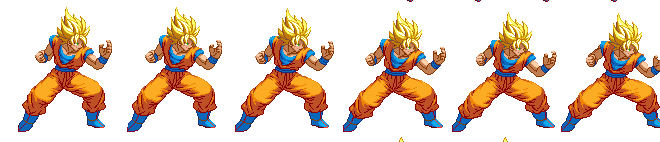
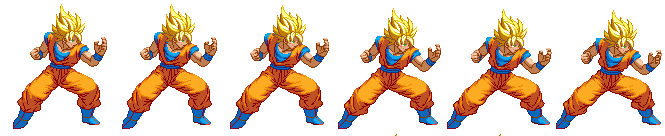
Ajout de la gravité, du saut, du nombre max de sauts, animations, effet de damages, collisions

diff --git a/test_olivier/modules/player.py b/test_olivier/modules/player.py
@@ -16,17 +16,19 @@ class Player(pg.sprite.Sprite):
         self.propertie = self.coord[0]
         self.init_plus()
         self.strike = 10
+        # Nombre de sauts max
+        self.jumps = 1
 
     def init_plus(self):
         '''Cette fonction permet d'initialiser des élements
         suplémentaires.'''
         self.rect.x, self.rect.y = 900, 500
         self.sprite_x = 50
-        # temps entre chaque sprite de l'animation idle en ms
+        # Temps entre chaque sprite de l'animation idle en ms
         self.idle_speed = 300
-        # somme des temps entres chaque frame
+        # Somme des temps entres chaque frame
         self.delta_sum = 0
-        # Etat pour savoir si le joueur fait rien
+        # Bouléen pour savoir si le joueur fait rien ou pas
         self.pause = True
         # Images complémentaires
         self.images_dict = sprites_images(self.game.name)
@@ -34,10 +36,9 @@ class Player(pg.sprite.Sprite):
     def move_right(self):
         '''Cette fonction gère les déplacements à droite.'''
         if self.rect.x <= 950:
-            self.rect.x += 10
+            self.rect.x += 5
             # On change l'image du joueur
-            self.images_dict = sprites_images(self.game.name)
-            self.image = self.images_dict['right']
+            self.change_animation('right')
             # Le joueur fait une action
             self.pause = False
 
@@ -45,10 +46,9 @@ class Player(pg.sprite.Sprite):
         '''Cette fonction gère les déplacements à gauche.'''
         if self.rect.x > 5:
             if not self.game.collision(self, self.game.all_objects):
-                self.rect.x -= 10
+                self.rect.x -= 5
                 # On change l'image du joueur
-                self.images_dict = sprites_images(self.game.name)
-                self.image = self.images_dict['left']
+                self.change_animation('left')
                 # Change les coordonnées du perso
                 self.pause = False
 
@@ -56,9 +56,36 @@ class Player(pg.sprite.Sprite):
         '''Cette fonction permet de gérer l'attaque d'un perso.'''
         # Le joueur fait une action
         self.pause = False
+        self.change_animation('attack')
+        if not self.game.collision(self, self.game.all_objects):
+            self.rect.x -= 1
+
+    def jump(self, event):
+        '''Fonction saut'''
+        if event.type == pg.KEYDOWN:
+            if event.key == pg.K_SPACE:
+                if self.rect.y <= 500 and self.jumps < 2:
+                    self.change_animation('jump')
+                    # Exécute le saut
+                    self.rect.y -= 200
+                    # Augmente le nombre de saut effectués
+                    self.jumps += 1
+
+    def gravity(self):
+        '''Focntion qui simule une gravité'''
+        # Le joueur tombe tant qu'il n'est pas au sol
+        if self.rect.y != 500:
+            self.pause = False
+            self.rect.y += 5
+            self.change_animation('fall')
+        # Sinon, on réinitialise son nombre de sauts à zéro
+        elif self.rect.y == 500:
+            self.jumps = 0
+
+    def change_animation(self, name):
+        '''Fonction qui change l'image du personnage'''
         self.images_dict = sprites_images(self.game.name)
-        self.image = self.images_dict['attack']
-        self.rect.x -= 1
+        self.image = self.images_dict[name]
 
     def blit_sprite(self, screen, dlt):
         '''Cette fonction sert à afficher le sprite du joueur en continu
@@ -79,26 +106,26 @@ class Player(pg.sprite.Sprite):
                 self.sprite_x = 0
         else:
             # On affiche les actions que le joueur fait
-            screen.blit(self.image, (self.rect.x, self.rect.y))
+            screen.blit(self.image, (self.rect))
 
     def coordinates_list(self):
         '''Coordonées du spritesheet'''
         self.tab = [[1, 2, 3, 4], [1, 3, 4, 5]]
         self.image = persos[self.game.name]
         if self.game.name == 'goku':
-            if self.game.right:
-                # Inverse le sens du spritesheet
-                self.image = persos['goku_right']
             self.tab = [[111, 0, 110, 130],
                         [111, 2, 1, 135],
                         [150, 2247, 139, 140]]
+            if self.game.right:
+                # Inverse le sens du spritesheet
+                self.image = persos['goku_right']
+
         # Change le personnage en fonction du nom
         elif self.game.name == 'vegeta':
-            if self.game.right:
-                self.image = persos['vegeta_right']
-                print(self.game.name)
             self.tab = [[100, 0, 100, 120],
                         [1, 1970, 120, 105],
                         [150, 4400, 135, 140]]
+            if self.game.right:
+                self.image = persos['vegeta_right']
         # Renvoi le tableau des coordonnées
         return self.tab

diff --git a/test_olivier/modules/game.py b/test_olivier/modules/game.py
@@ -3,6 +3,7 @@ les différents événements dans le jeu.'''
 import pygame as pg
 from modules.player import Player
 from modules.object import PunchingBall
+from modules.texture_loader import images, sprites_images
 
 
 class Jeu:
@@ -13,26 +14,32 @@ class Jeu:
         # On récupère le nom du perso choisi.
         self.name = name
         self.is_playing = False
-        self.fps = 60
         self.right = False
+        self.fps = 60
+        # Génération d'un personnage
         self.player = Player(self)
+        # Génération d'un objet
         self.object = PunchingBall(self)
         # Crée des groupes de sprites vide
         self.all_players = pg.sprite.Group()
         self.all_objects = pg.sprite.Group()
         # Ajoute un joueur au groupe de sprite de tout les joueurs
         self.all_players.add(self.player)
+        # Ajout de l'objet dans le groue de spritede tout les objets
         self.spawn_objects()
 
-    def handle_input(self):
+    def handle_input(self, EVENT):
         '''Cette fonction a pour but de récupérer les touches préssées.
         En fonction de celles-ci, on effectue des opération spécifiques.'''
+        # Récupère les touches préssées actuellement
         choice = pg.key.get_pressed()
-        # On réaffecte le tableau d'origine afinde reprendre les coordonnées de base
+        # Réaffecte la liste d'origine pour reprendre les coordonnées de base
         self.player.coord = self.player.coordinates_list()
         self.player.propertie = self.player.coord[0]
         self.player.pause = True
-        # Modifie les animations en fonction dde l'input
+        # Réaffecte l'image de l'objet
+        self.object.image = images['punchingball']
+        # Modifie les animations en fonction de l'input
         if choice[pg.K_RIGHT]:
             self.player.move_right()
             self.right = True
@@ -41,6 +48,13 @@ class Jeu:
             self.right = False
         elif choice[pg.K_q]:
             self.player.attack()
+            # Gère les collisions du personnage
+            self.strike_collision()
+        for event in EVENT:
+            self.player.jump(event)
+        # Système de gravité
+        self.player.gravity()
+            
 
     def collision(self, sprite, group):
         '''Cette fonction renvoi un bouléen,
@@ -51,14 +65,13 @@ class Jeu:
         return pg.sprite.spritecollide(sprite, group,
                                        False, pg.sprite.collide_mask)
 
-    def update(self, screen, dt):
-        '''Cette fonction petrmet de mettre à jour le jeu.'''
-        # screen.blit(self.player.image, self.player.rect)
-        self.rect = self.player.blit_sprite(screen, dt)
+    def update(self, screen, dlt, EVENT):
+        '''Cette fonction petrmet de mettre à jour les événements
+        du jeu.'''
+        # Affiche le personnage sur l'écran
+        self.rect = self.player.blit_sprite(screen, dlt)
         # Gère les inputs
-        # self.update_objects(screen)
-        self.handle_input()
-        self.strike_collision()
+        self.handle_input(EVENT)
         # Renvoi le rectangle du joueur
         return self.rect
 
@@ -69,12 +82,14 @@ class Jeu:
 
     def update_objects(self, screen):
         '''Met à jour l'image del'objet'''
+        # Fait bouger le punching ball
+        self.object.forward()
         # Met le punching ball à jour
         return screen.blit(self.object.image, (self.object.rect))
-    
+
     def strike_collision(self):
         '''Actionne l'attaque du personnage'''
         if self.collision(self.player, self.all_objects):
             for objects in self.collision(self.player, self.all_objects):
                 objects.damage()
-                print(self.player.strike)
+                self.object.image = images['hit']

diff --git a/test_olivier/test_player.py b/test_olivier/test_player.py
@@ -5,6 +5,12 @@ from modules.game import Jeu
 from modules.texture_loader import images
 
 
+def fps_moy(tab):
+    '''Cette fonction permet de calculer la moyenne des fps'''
+    # Renvoi la somme des valeurs divisée par la longueur du tableau
+    return int(sum([element for element in tab]) / len(tab))
+
+
 def screen_menu():
     '''Fonction qui renvoie l'écran.'''
     pg.display.set_caption('Moissan Fighter Z')
@@ -25,6 +31,7 @@ def main_window():
     '''Fonction qui lance la fenêtre principale.'''
     pg.init()
     clock = pg.time.Clock()
+    list_fps = []
     # Elements de la fenêtre
     screen = screen_menu()
     # Redimensionne le fond d'écran
@@ -38,6 +45,8 @@ def main_window():
     # dlt est le delta time: càd le temps entre 2 frames
     dlt = clock.tick(jeu.fps)
     while test:
+        # Ajoute les fps
+        list_fps.append(int(clock.get_fps()))
         EVENTS = pg.event.get()
         # Ajout du fond dans la liste de chose à mettre à update
         liste_update.append(screen.blit(background, (0, 0)))
@@ -46,7 +55,7 @@ def main_window():
             jeu.name = square.menu_update(screen, EVENTS)
         elif jeu.name != 'hello':
             # Mise à jour du jeu
-            liste_update.append(jeu.update(screen, dlt))
+            liste_update.append(jeu.update(screen, dlt, EVENTS))
             # liste_update.append(jeu.update_objects(screen))
             liste_update.append(jeu.update_objects(screen))
         pg.display.update(liste_update)
@@ -55,8 +64,9 @@ def main_window():
         # On vérifie si le test est sur True ou False constemment
         test = quit_game(EVENTS, test)
         dlt = clock.tick(jeu.fps)
-
+    # Affiche la moyenne des fps
     pg.quit()
+    print("Moyenne des fps:", fps_moy(list_fps))
 
 
 main_window()

diff --git a/test_olivier/modules/object.py b/test_olivier/modules/object.py
@@ -12,19 +12,18 @@ class PunchingBall(pg.sprite.Sprite):
         self.image = images['punchingball']
         # Récupère le rectangle de l'image
         self.rect = self.image.get_rect()
-        self.rect.x, self.rect.y = 10, 500
-        self.health = 10
+        self.rect.x, self.rect.y = 0, 500
+        self.health = 1000
         # Vérifie si l'item est attaqué ou non
         self.is_attacked = False
 
     def damage(self):
         '''Fonction qui calcule les dégats reçus'''
-        if self.health > 0:
+        if self.health > 0 and self.rect.x >= 0:
             self.health -= 10
-            self.is_attacked = True
-            # Redonne de la vie continuellement à l'item
-        if not self.is_attacked and self.health < 99:
-            self.health += 1
+            self.rect.x -= 10
 
-    def avance(self):
-        self.rect.x += 0.1
+    def forward(self):
+        '''Cette fonction permet de déplacer l'objet'''
+        if not self.game.collision(self, self.game.all_players):
+            self.rect.x += 0.1

diff --git a/test_olivier/modules/texture_loader.py b/test_olivier/modules/texture_loader.py
@@ -16,7 +16,9 @@ def sprites_images(name):
     '''Cette fonction récupère les chemins des images des persos.'''
     dict = {'attack': pg.image.load(f'test_olivier/gfx/{name}/attack.png'),
             'right': pg.image.load(f'test_olivier/gfx/{name}/right.png'),
-            'left': pg.image.load(f'test_olivier/gfx/{name}/left.png'), }
+            'left': pg.image.load(f'test_olivier/gfx/{name}/left.png'),
+            'jump': pg.image.load(f'test_olivier/gfx/{name}/jump_left.png'),
+            'fall': pg.image.load(f'test_olivier/gfx/{name}/fall_left.png')}
     return dict
 
 
@@ -28,6 +30,7 @@ images["background"] = load_image(
     BG_PATH+'map_tuto.jpg', (1080, 720)).convert()
 images["square"] = load_image(BG_PATH+'square.png', (120, 120))
 images['punchingball'] = load_image(BG_PATH+'image.png', (120, 120))
+images['hit'] = load_image(BG_PATH+'punched.png', (120, 120))
 
 # Chargement des images pour les joueurs
 persos = {}

diff --git a/test_olivier/modules/menu.py b/test_olivier/modules/menu.py
@@ -35,7 +35,6 @@ class Menu:
             if event.type == pg.KEYDOWN:
                 if event.key == pg.K_RETURN:
                     tab = self.perso()
-                    print('Vous êtes sortis du menu.')
                     # Affecte le nom du joueur sélectionné
                     self.name = tab[self.column][self.lines]
         return self.name
